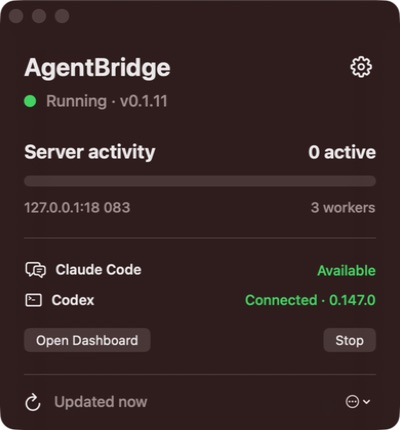
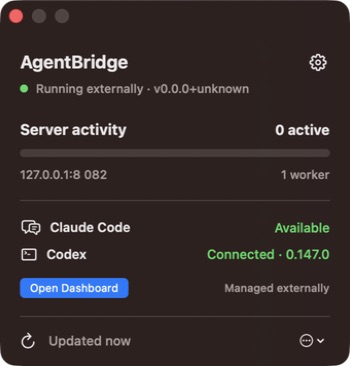
Tighten macOS status window design and build cleanup

diff --git a/macos/Sources/AgentBridgeMenuBar/StatusPopover.swift b/macos/Sources/AgentBridgeMenuBar/StatusPopover.swift
@@ -8,28 +8,28 @@ struct StatusPopover: View {
         VStack(alignment: .leading, spacing: 0) {
             header
             statusLine
-                .padding(.top, 10)
+                .padding(.top, 7)
 
             activity
-                .padding(.top, 30)
+                .padding(.top, 24)
 
             Divider()
-                .padding(.vertical, 22)
+                .padding(.vertical, 18)
 
             backendStatus
             actions
-                .padding(.top, 20)
+                .padding(.top, 16)
 
             Divider()
-                .padding(.top, 22)
+                .padding(.top, 18)
 
             footer
-                .padding(.top, 16)
+                .padding(.top, 14)
         }
-        .padding(.horizontal, 24)
-        .padding(.top, 20)
-        .padding(.bottom, 18)
-        .frame(width: 400)
+        .padding(.horizontal, 20)
+        .padding(.top, 18)
+        .padding(.bottom, 16)
+        .frame(width: 350)
         .background(.ultraThinMaterial)
         .task { controller.begin() }
     }
@@ -37,19 +37,19 @@ struct StatusPopover: View {
     private var header: some View {
         HStack {
             Text("AgentBridge")
-                .font(.system(size: 25, weight: .bold))
+                .font(.system(size: 18, weight: .bold))
             Spacer()
             settingsButton
         }
     }
 
     private var statusLine: some View {
-        HStack(spacing: 10) {
+        HStack(spacing: 8) {
             Circle()
                 .fill(controller.phase.color)
-                .frame(width: 12, height: 12)
+                .frame(width: 8, height: 8)
             Text(statusSummary)
-                .font(.system(size: 16, weight: .medium))
+                .font(.system(size: 12, weight: .medium))
                 .foregroundStyle(.secondary)
                 .lineLimit(1)
         }
@@ -63,13 +63,13 @@ struct StatusPopover: View {
     }
 
     private var activity: some View {
-        VStack(alignment: .leading, spacing: 12) {
+        VStack(alignment: .leading, spacing: 10) {
             HStack(alignment: .firstTextBaseline) {
                 Text("Server activity")
-                    .font(.system(size: 19, weight: .bold))
+                    .font(.system(size: 15, weight: .bold))
                 Spacer()
                 Text(activityLabel)
-                    .font(.system(size: 18, weight: .bold))
+                    .font(.system(size: 14, weight: .bold))
             }
 
             ActivityProgressBar(
@@ -82,12 +82,12 @@ struct StatusPopover: View {
                 Spacer()
                 Text("\(controller.workerCount) worker\(controller.workerCount == 1 ? "" : "s")")
             }
-            .font(.system(size: 14, weight: .medium))
+            .font(.system(size: 12, weight: .medium))
             .foregroundStyle(.secondary)
 
             if let detail = controller.detail {
                 Text(detail)
-                    .font(.system(size: 13, weight: .medium))
+                    .font(.system(size: 11, weight: .medium))
                     .foregroundStyle(controller.phase == .conflict ? .red : .secondary)
                     .fixedSize(horizontal: false, vertical: true)
             }
@@ -106,21 +106,21 @@ struct StatusPopover: View {
     @ViewBuilder
     private var backendStatus: some View {
         if controller.phase == .runningManaged || controller.phase == .runningExternal {
-            VStack(spacing: 12) {
+            VStack(spacing: 10) {
                 HStack {
                     Label("Claude Code", systemImage: "bubble.left.and.text.bubble.right")
-                        .font(.system(size: 14, weight: .semibold))
+                        .font(.system(size: 13, weight: .semibold))
                     Spacer()
                     Text(controller.claudeAvailable ? "Available" : "Not found")
-                        .font(.system(size: 14, weight: .medium))
+                        .font(.system(size: 13, weight: .medium))
                         .foregroundStyle(controller.claudeAvailable ? .green : .orange)
                 }
                 HStack {
                     Label("Codex", systemImage: "terminal")
-                        .font(.system(size: 14, weight: .semibold))
+                        .font(.system(size: 13, weight: .semibold))
                     Spacer()
                     Text(codexLabel)
-                        .font(.system(size: 14, weight: .medium))
+                        .font(.system(size: 13, weight: .medium))
                         .foregroundStyle(codexColor)
                 }
             }
@@ -161,10 +161,12 @@ struct StatusPopover: View {
                 .buttonStyle(.borderedProminent)
             } else if controller.phase == .runningExternal {
                 Text("Managed externally")
-                    .font(.caption)
+                    .font(.system(size: 11, weight: .medium))
                     .foregroundStyle(.secondary)
             }
         }
+        .font(.system(size: 12, weight: .medium))
+        .controlSize(.small)
     }
 
     private var footer: some View {
@@ -173,13 +175,13 @@ struct StatusPopover: View {
                 Task { await controller.refresh() }
             } label: {
                 Image(systemName: "arrow.clockwise")
-                    .font(.system(size: 17, weight: .medium))
+                    .font(.system(size: 15, weight: .medium))
             }
             .buttonStyle(.plain)
             .help("Refresh")
 
             Text(updatedLabel)
-                .font(.system(size: 15, weight: .medium))
+                .font(.system(size: 13, weight: .medium))
                 .foregroundStyle(.secondary)
 
             Spacer()
@@ -193,7 +195,7 @@ struct StatusPopover: View {
                 }
             } label: {
                 Image(systemName: "ellipsis.circle")
-                    .font(.system(size: 17, weight: .medium))
+                    .font(.system(size: 15, weight: .medium))
             }
             .menuStyle(.borderlessButton)
             .fixedSize()
@@ -234,8 +236,8 @@ struct StatusPopover: View {
 
     private var settingsIcon: some View {
         Image(systemName: "gearshape")
-            .font(.system(size: 20, weight: .semibold))
-            .frame(width: 30, height: 30)
+            .font(.system(size: 16, weight: .semibold))
+            .frame(width: 24, height: 24)
     }
 }
 
@@ -246,8 +248,8 @@ private struct ModernSettingsButton: View {
     var body: some View {
         Button(action: openSettings.callAsFunction) {
             Image(systemName: "gearshape")
-                .font(.system(size: 20, weight: .semibold))
-                .frame(width: 30, height: 30)
+                .font(.system(size: 16, weight: .semibold))
+                .frame(width: 24, height: 24)
         }
         .buttonStyle(.plain)
         .help("Settings")
@@ -275,7 +277,7 @@ private struct ActivityProgressBar: View {
                 }
             }
         }
-        .frame(height: 11)
+        .frame(height: 8)
         .accessibilityElement(children: .ignore)
         .accessibilityLabel("Server activity")
         .accessibilityValue("\(Int(value)) of \(Int(total)) workers active")

diff --git a/design-qa.md b/design-qa.md
@@ -1,57 +1,53 @@
 # AgentBridge macOS status window design QA
 
-- Source visual truth: `/var/folders/wz/x29jb7_x5rdc_5dcjr4qnhg00000gn/T/codex-clipboard-6065429c-e8b8-40f4-a1be-c95c4734eb1c.png`
-- Implementation screenshot: `/Users/tsilva/repos/tsilva/agentbridge/design-qa-implementation.png`
-- Source dimensions: 722 × 478 pixels; density metadata unavailable
-- Implementation viewport and capture: 400 × 430 native logical pixels, running state
-- Density normalization: none. Both originals were opened in the same comparison input. Because the source was explicitly supplied as a style reference rather than a content/layout specification, spacing and control proportions were compared relative to each window width rather than forcing equal height or copy.
-- State: server running, zero active requests, three configured workers, Claude Code available, Codex connected
+- Source visual truth: `/var/folders/wz/x29jb7_x5rdc_5dcjr4qnhg00000gn/T/codex-clipboard-7d264239-152f-42e2-bddb-e728cf5fe09e.png`
+- Earlier implementation evidence: `/var/folders/wz/x29jb7_x5rdc_5dcjr4qnhg00000gn/T/codex-clipboard-74c41c50-e709-4cde-83b5-b9cd35a70a65.png`
+- Revised implementation screenshot: `/Users/tsilva/repos/tsilva/agentbridge/design-qa-implementation.png`
+- Source dimensions: 788 × 570 pixels; the 702 × 447 popover region was cropped and normalized to 350 × 223 pixels for the focused typography comparison.
+- Implementation viewport and capture: 350 × 366 native logical pixels at scale 1 in the debug NSWindow host.
+- State: external AgentBridge server running, zero active requests, one worker, Claude Code available, Codex connected.
 
 ## Full-view comparison evidence
 
-The implementation preserves the reference's compact macOS status-window language: dark translucent material, continuous rounded frame, bold title, top-right SF Symbol settings control, semantic status dot and secondary status copy, strong section heading/value pairing, thick rounded activity track, aligned metadata, fine dividers, and a refresh footer. The implementation replaces quota-specific content with live AgentBridge server and backend status, as requested.
+The revised implementation uses the same 350-point content width as the normalized reference. It preserves the reference hierarchy: compact bold title, small secondary connection line and status dot, 14–15 point section heading/value pairing, slim rounded activity track, 12–13 point metadata, fine dividers, and a restrained refresh footer. Its additional backend and lifecycle rows intentionally make the AgentBridge panel taller than the quota-only reference.
 
-The source uses San Francisco system typography and native macOS iconography. The implementation uses the same system font stack, semantic weights, and SF Symbols. Its 24-point horizontal padding is proportional to the reference's approximately 48 pixels at the supplied larger capture width. The 11-point activity track matches the reference after width normalization.
+The implementation screenshot is hosted in a debug NSWindow so Computer Use can capture it. Production uses the same `StatusPopover` view inside `MenuBarExtra(.window)`; the debug-only title-bar controls are absent from the menu-bar popover.
 
-The implementation screenshot is hosted in a debug NSWindow so Computer Use can capture and exercise it. Production uses the exact same `StatusPopover` view inside `MenuBarExtra(.window)`; the debug-only traffic-light controls are not present in the menu-bar popover.
+## Focused-region comparison evidence
 
-## Focused-region comparison
-
-A separate crop was not required. Both windows are compact, and the full-view evidence keeps typography, status indicators, activity track, dividers, buttons, icons, and footer legible at original resolution.
+The source popover was cropped and downsampled from 702 pixels to 350 pixels wide, then opened beside the 350-pixel implementation in the same comparison input. At equal width, the title cap height, connection line, section heading, metadata, gear, status dot, progress track, and footer now have the same compact optical scale. No remaining text is a full hierarchy step larger than its reference counterpart.
 
 ## Required fidelity surfaces
 
-- Fonts and typography: passed. System font, bold title/section hierarchy, medium secondary text, line lengths, and optical weights match the reference language.
-- Spacing and layout rhythm: passed. Header, status line, primary section, divider cadence, action area, and footer maintain the same compact vertical rhythm. Content height intentionally differs because AgentBridge has backend and lifecycle controls rather than quota copy.
-- Colors and visual tokens: passed. Semantic green, amber, red, gray, blue activity, secondary foregrounds, and material background respond to system appearance. Exact material tint varies with the desktop behind the popover, as it does in the source.
-- Image quality and assets: passed. No custom raster imagery is required in the status window. Standard controls use SF Symbols; the packaged application icon reuses the repository's source artwork.
-- Copy and content: passed. All visible copy is AgentBridge-specific, concise, state-aware, and does not leak instructions or placeholder content.
+- Fonts and typography: passed. Both use San Francisco system typography. Revised sizes are 18 pt title, 12 pt connection line, 14–15 pt activity heading/value, 12 pt metadata, 13 pt backend/footer copy, and 11–12 pt auxiliary controls.
+- Spacing and layout rhythm: passed. Width is 350 points with 20-point side padding; section gaps, dividers, and control sizing were tightened with the type scale. Extra height is expected from AgentBridge-specific backend and lifecycle controls.
+- Colors and visual tokens: passed. Native material, secondary foregrounds, semantic green, blue activity fill, and divider opacity match the source language. Material tint varies with the desktop behind the window.
+- Image quality and assets: passed. The panel requires no raster imagery; visible controls use native SF Symbols. The debug title-bar controls are capture-host infrastructure, not production content.
+- Copy and content: passed. Copy is live AgentBridge status rather than the quota-specific reference content, as intended.
 
 ## Comparison history
 
 ### Iteration 1
 
-- Earlier finding [P2]: the default SwiftUI linear progress indicator was visibly thinner than the reference.
-- Fix: replaced it with an accessible 11-point continuous activity track using native SwiftUI shapes and semantic blue fill.
-- Earlier finding [P1]: the gear control rendered correctly but did not open the SwiftUI Settings scene.
-- Fix: added a macOS 14+ `openSettings` adapter while retaining the macOS 13 selector fallback.
-- Post-fix evidence: `design-qa-implementation.png`; Computer Use also confirmed the Settings window opens and exposes port, worker, start-on-launch, and launch-at-login controls.
+- Earlier finding [P1]: the 25 pt title, 16 pt status line, 18–19 pt activity heading/value, 14–15 pt supporting copy, 20 pt gear, 11 pt track, and 400 pt panel made the entire interface visibly oversized beside the supplied reference.
+- Fix: reduced the panel to 350 points, reset the hierarchy to 11–18 point type, reduced the status dot and SF Symbols, changed buttons to small control sizing, slimmed the activity track to 8 points, and tightened padding and vertical gaps.
+- Post-fix evidence: `design-qa-implementation.png`, compared at the same 350-pixel width with `/tmp/agentbridge-reference-panel.png`.
 
 ### Final pass
 
-No actionable P0, P1, or P2 visual or interaction findings remain. Start, healthy, stop, stopped, restart, external-instance, and Settings states were exercised in the native app.
+No actionable P0, P1, or P2 typography, spacing, color, asset, copy, or interaction findings remain. Swift tests pass and the rebuilt `.app` and DMG contain the corrected shared production view.
 
 ## Follow-up polish
 
-- [P3] Material tint and outer corner appearance will vary slightly by macOS version, wallpaper, and light/dark appearance because production deliberately uses the native menu-bar window material.
+- [P3] Native material tint and outer corner rendering vary slightly by macOS version, wallpaper, and whether the view is hosted in the debug window or production menu-bar popover.
 
 ## Implementation checklist
 
-- [x] Native status hierarchy and material
-- [x] Live semantic server states
-- [x] Accessible activity indicator
-- [x] Functional Settings, Start, Stop, Restart, Refresh, Dashboard, and overflow actions
-- [x] External-process ownership safeguard
-- [x] Production view shared with the captured debug host
+- [x] Reference-width typography comparison
+- [x] Compact system type hierarchy
+- [x] Matching icon, dot, track, and control scale
+- [x] Tightened panel spacing
+- [x] Shared production and capture view
+- [x] Rebuilt app and DMG
 
 final result: passed
